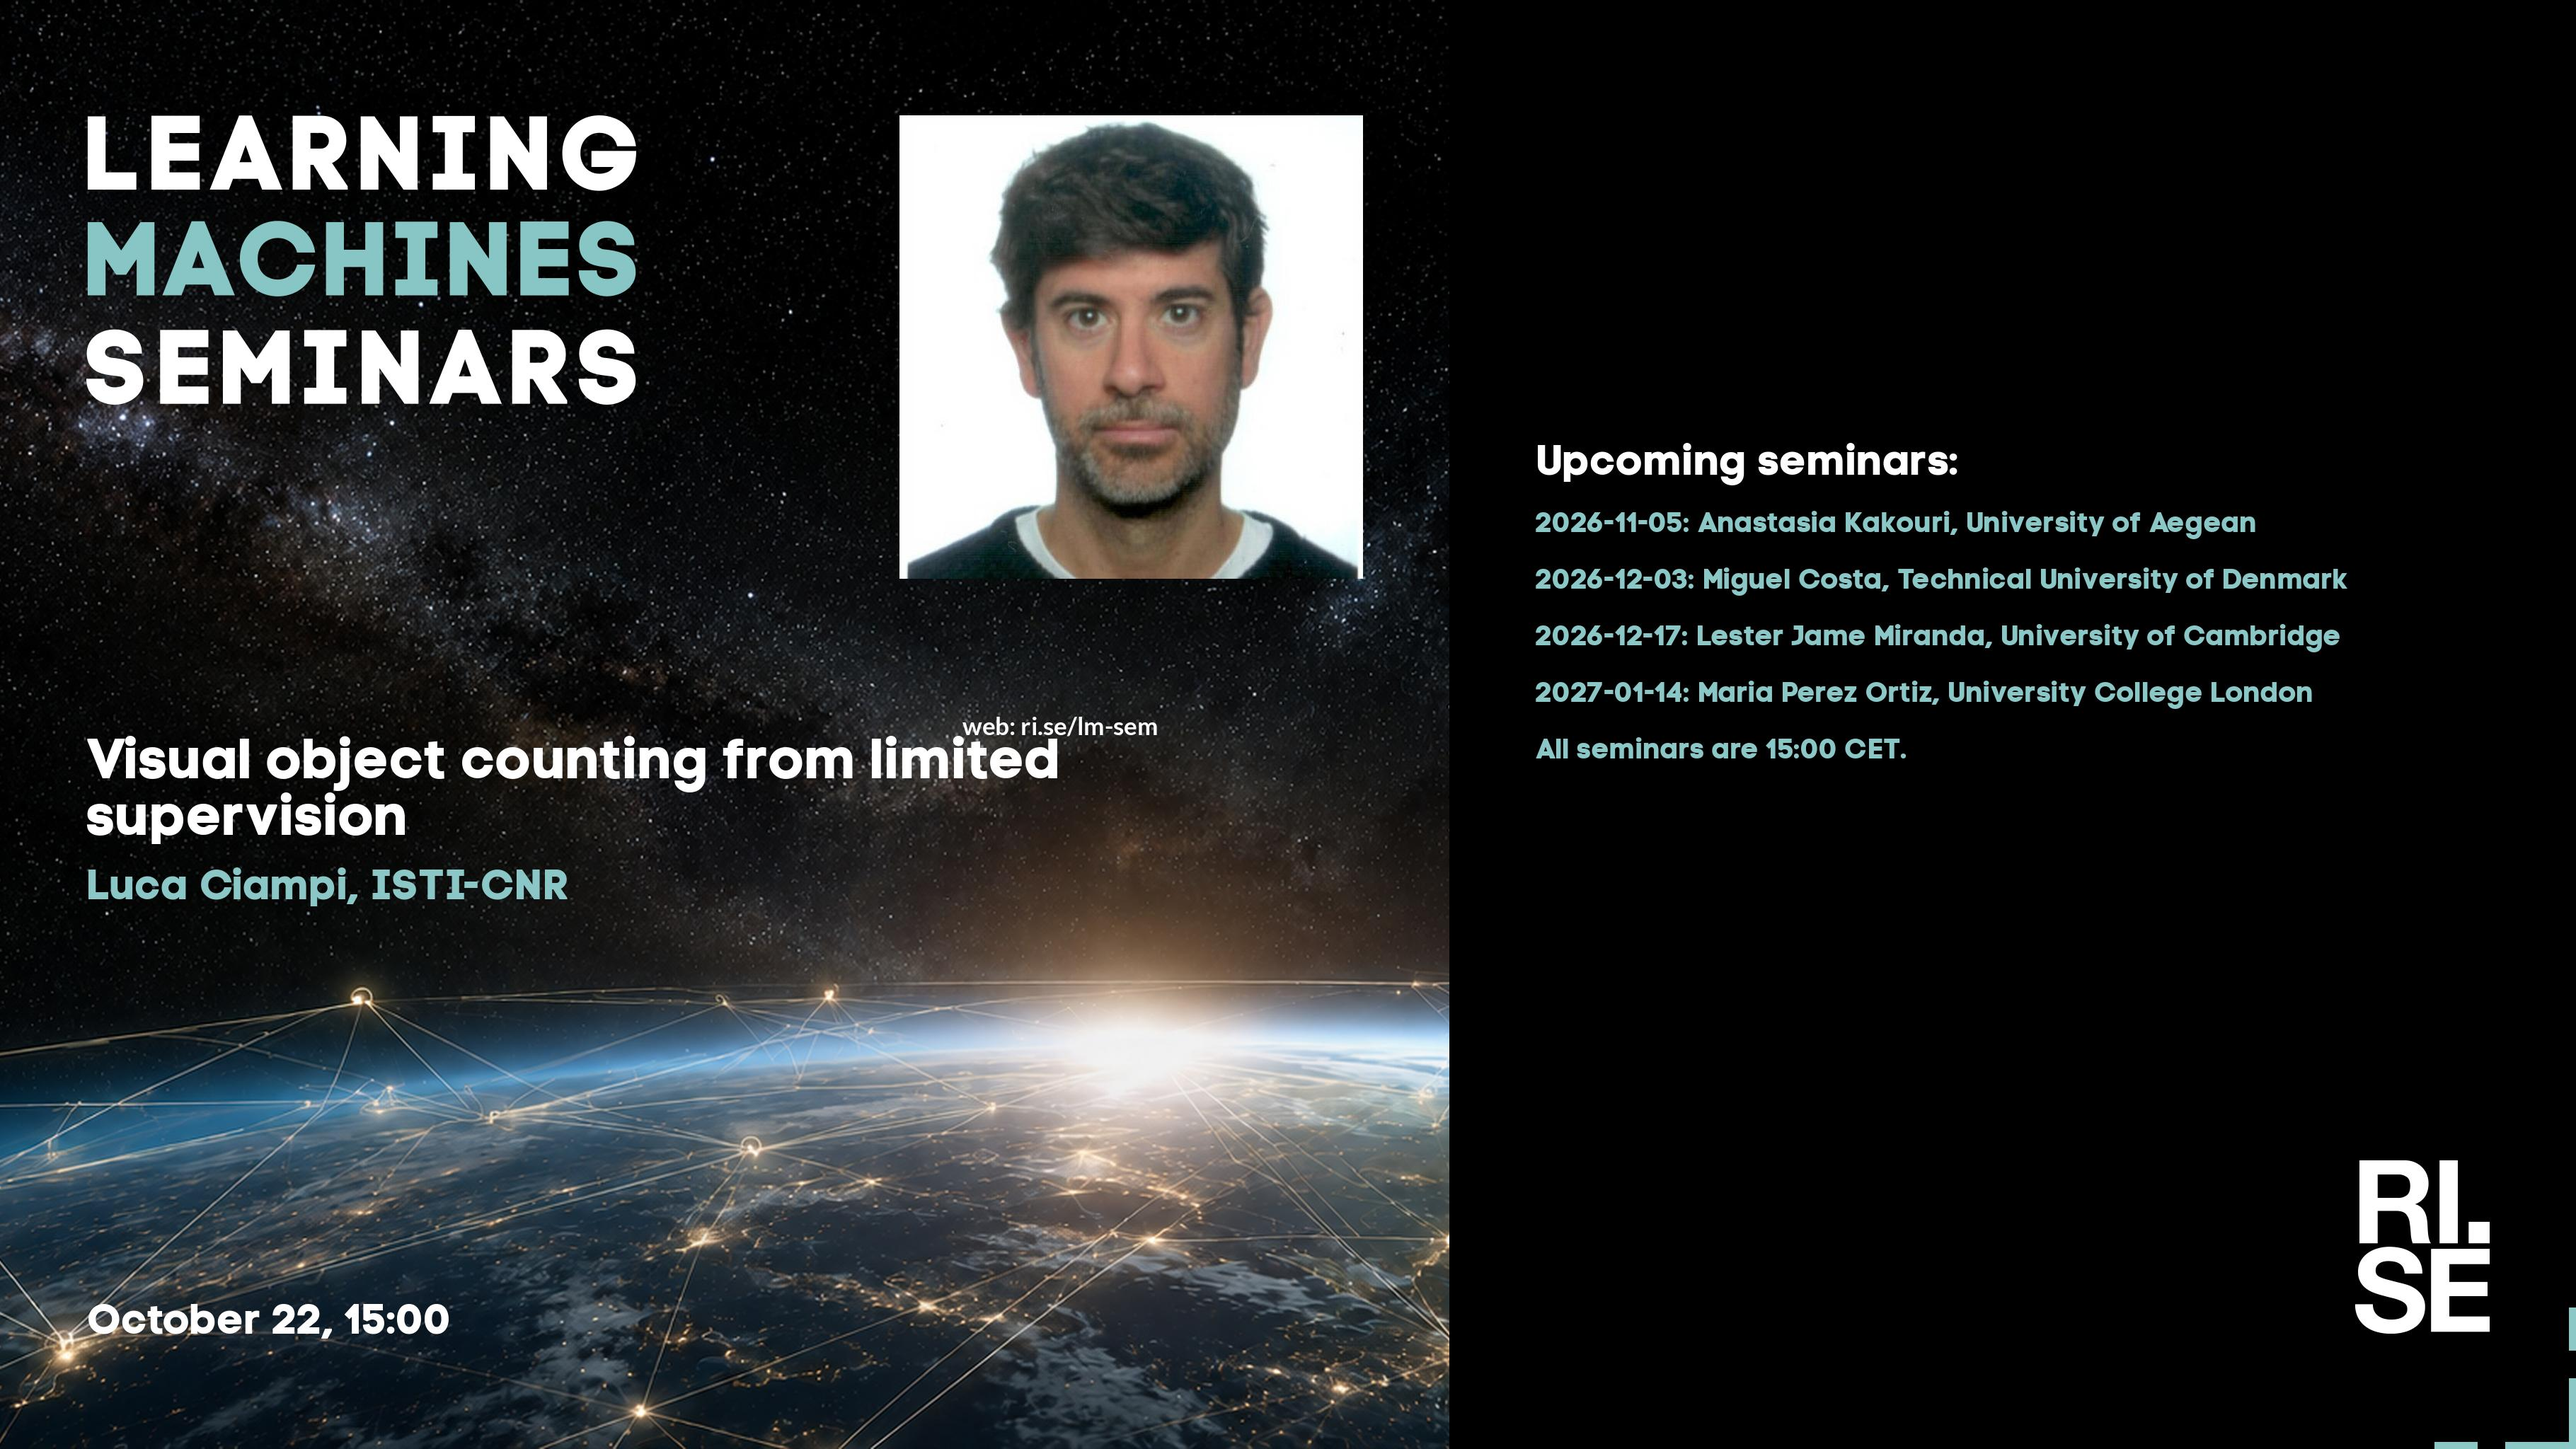
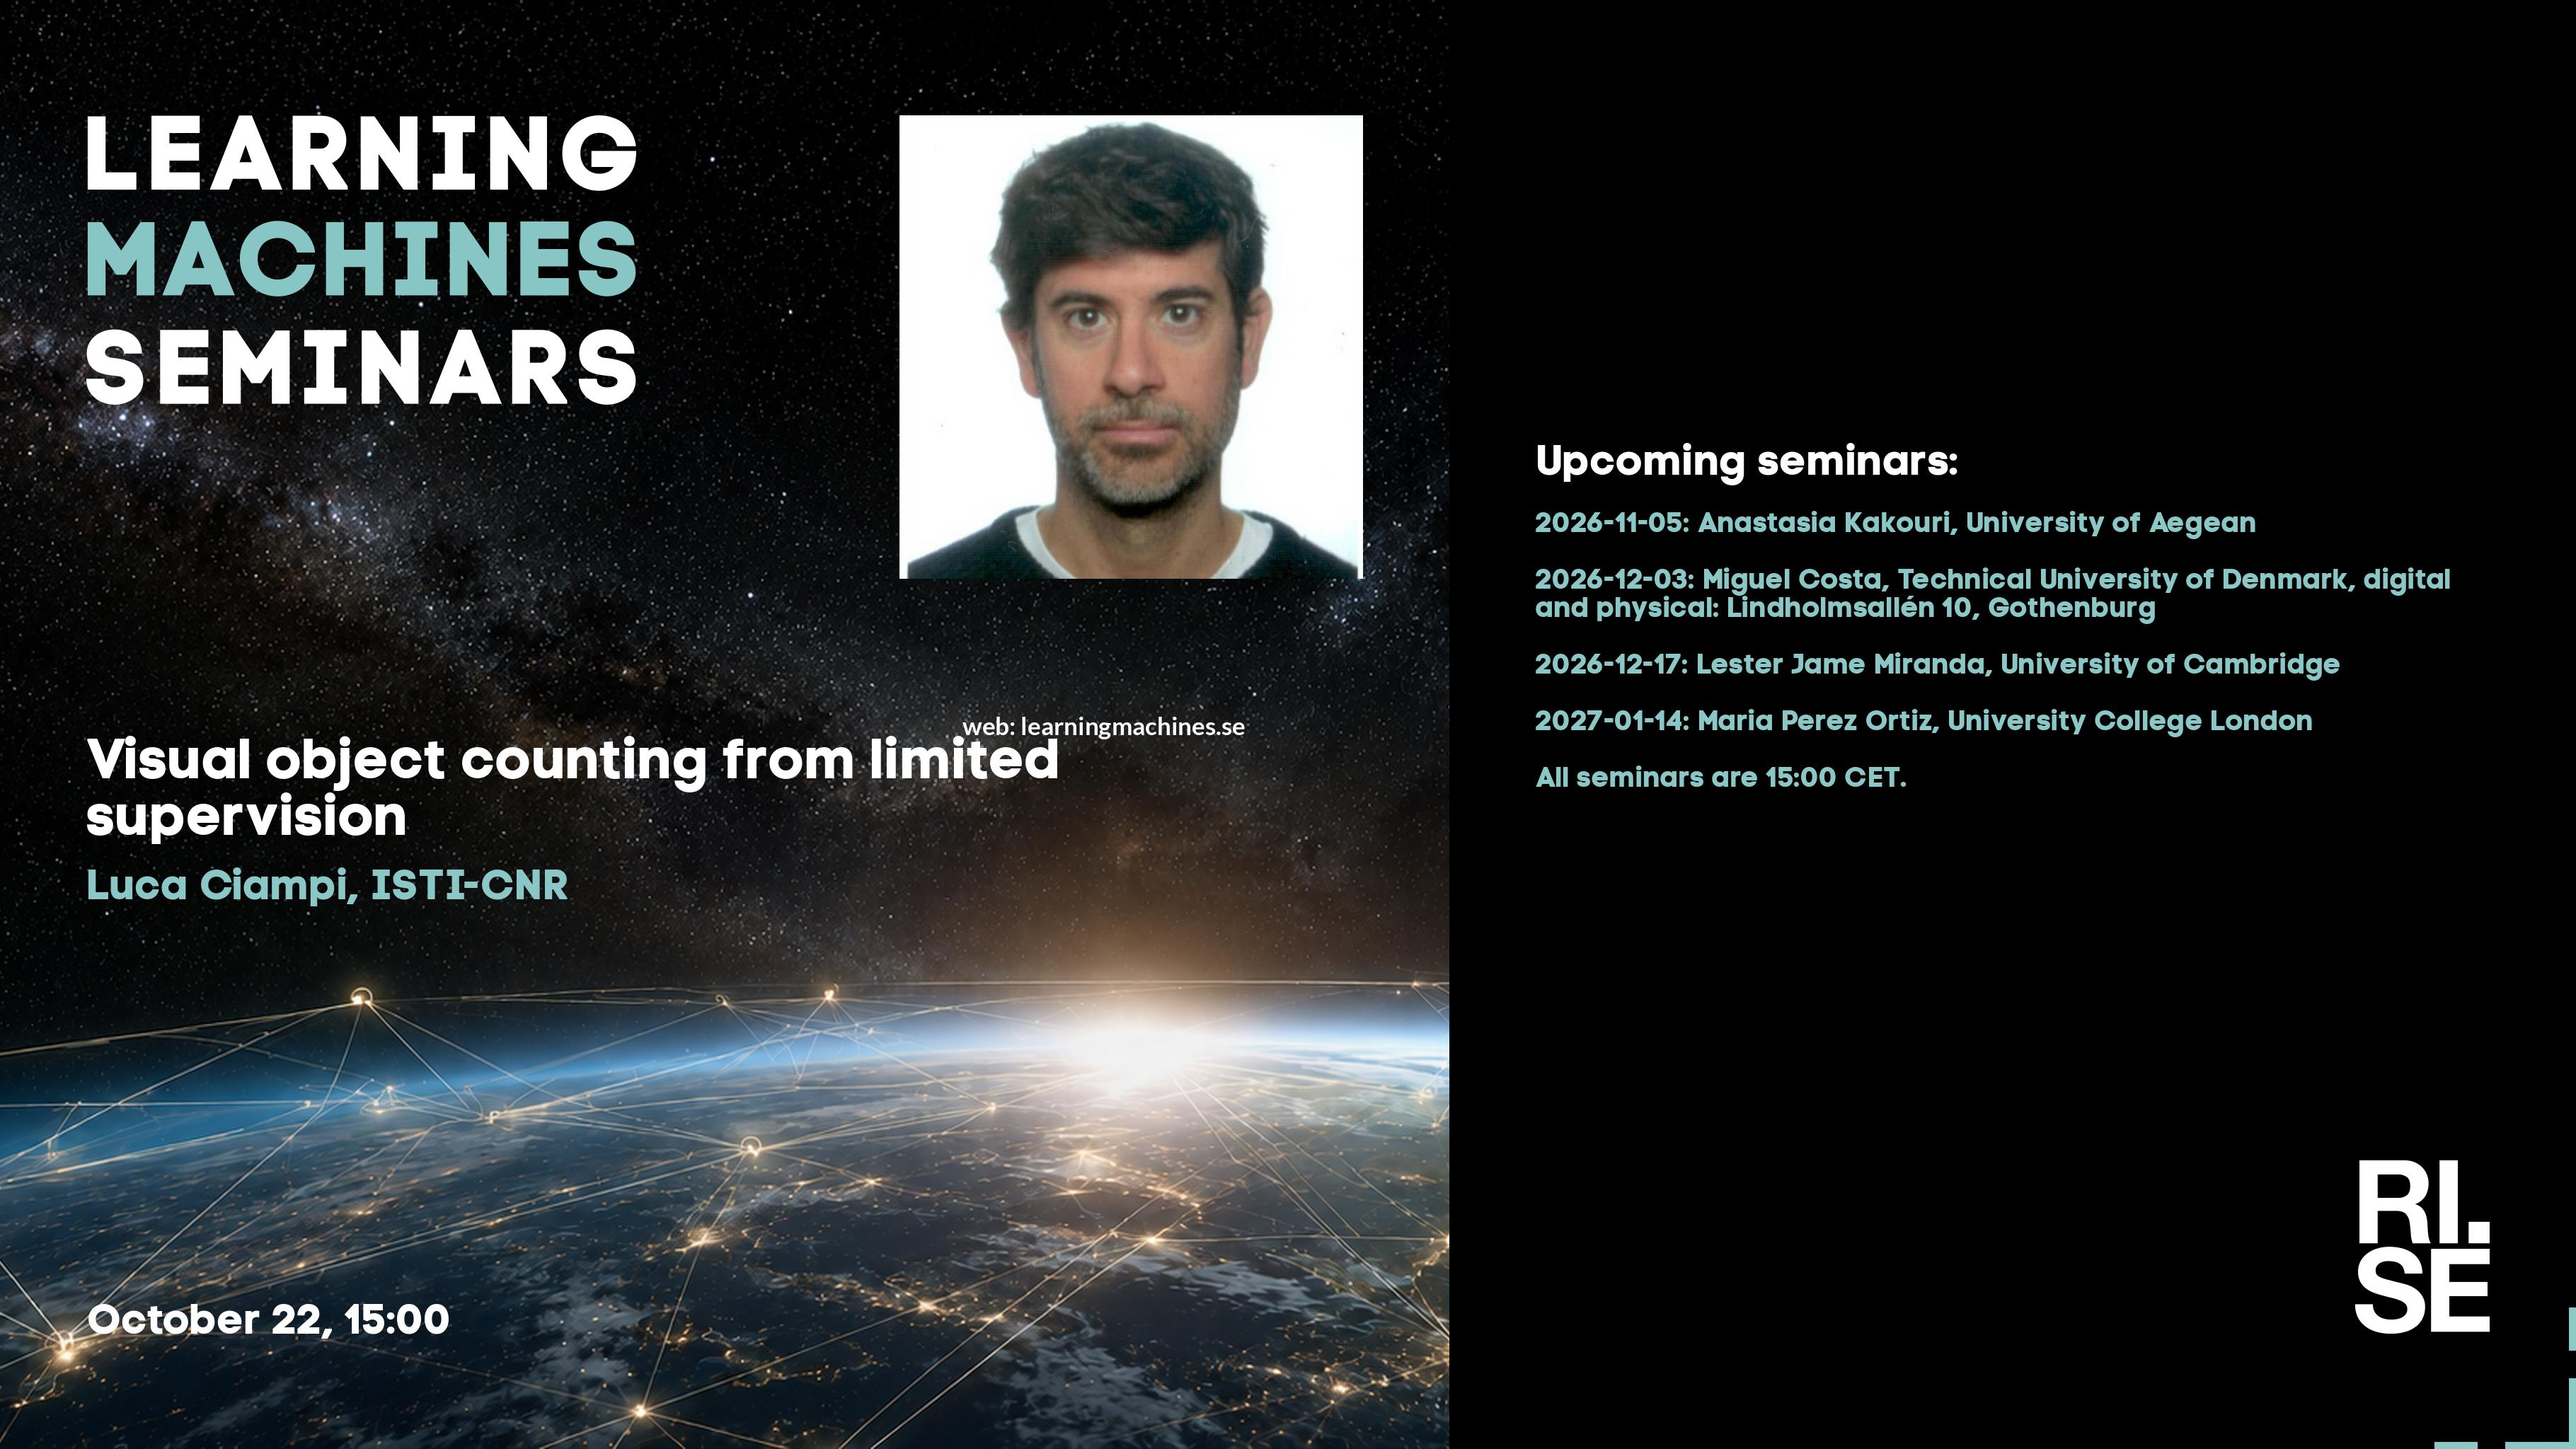
Updated plan on web site.

Changed region(s): [[0.5898, 0.4062, 0.9313, 0.5625], [0.9003, 0.375, 0.9624, 0.4062], [0.4036, 0.5, 0.4657, 0.5312]]

diff --git a/lm/2026-10-22.md b/lm/2026-10-22.md
@@ -27,12 +27,12 @@ Across applications ranging from traffic and crowd monitoring to biomedical imag
 **Upcoming seminars:**
 
 * 2026-11-05: Anastasia Kakouri, University of Aegean
-* 2026-12-03: Miguel Costa, Technical University of Denmark
+* 2026-12-03: Miguel Costa, Technical University of Denmark, **digital and physical: Lindholmsallén 10, Gothenburg**
 * 2026-12-17: Lester Jame Miranda, University of Cambridge
 * 2027-01-14: Maria Perez Ortiz, University College London
 * All seminars are 15:00 CET.
 
-More information and coming seminars: [https://ri.se/lm-sem](https://ri.se/lm-sem)
+More information and coming seminars: [https://learningmachines.se](https://learningmachines.se)
 
 -- The Learning Machines Team
 
